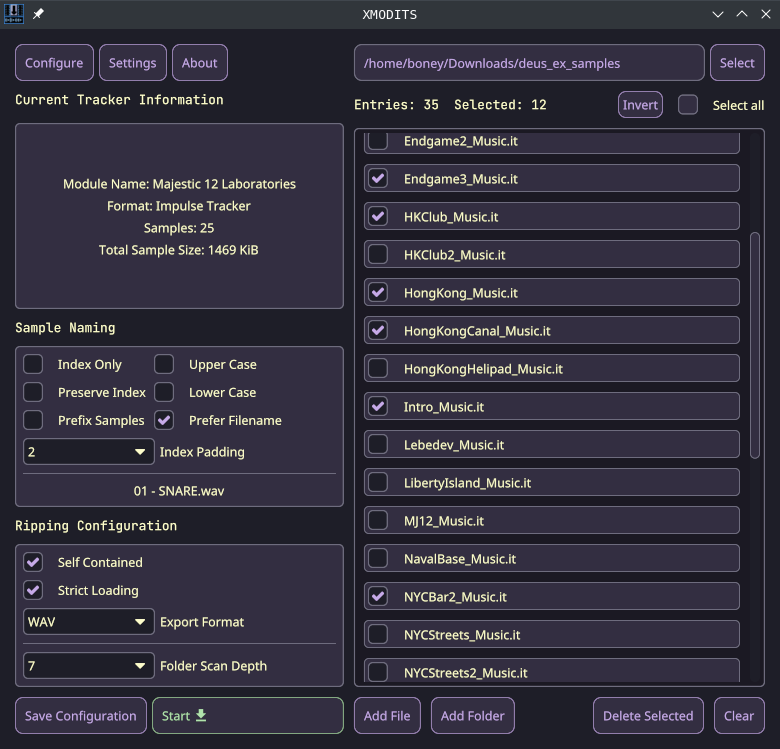
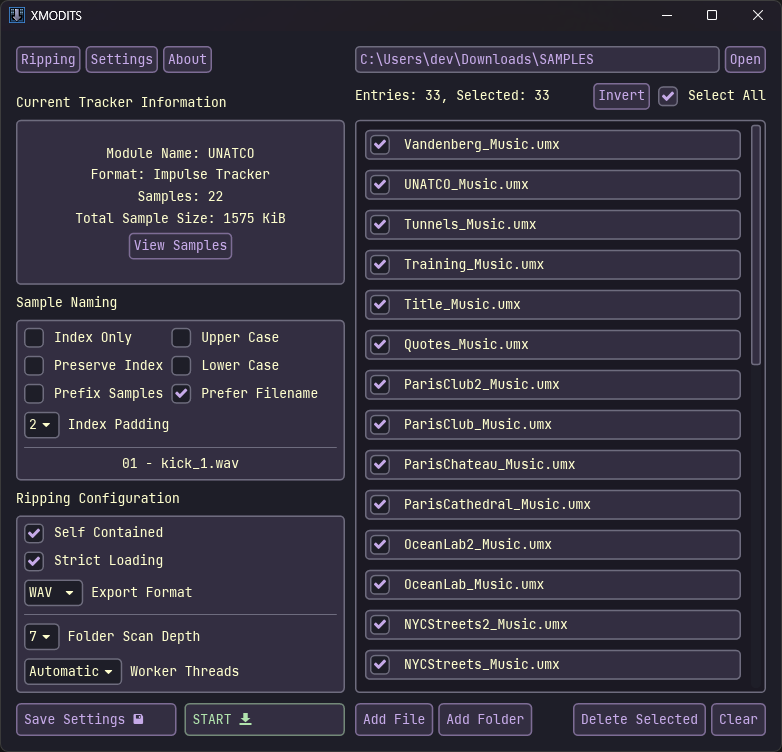
Update screenshots and readme

diff --git a/README.md b/README.md
@@ -1,9 +1,7 @@
 <div align="center">
 <img alt="XMODITS Logo" src="icon.png">     
-<!-- I could do with an improved logo tbh -->
 
 # XMODITS
-
 
 # A tool to bulk extract samples from various tracker modules with ease.
 </div>
@@ -53,10 +51,10 @@ If you prefer to use a minimal version of this tool, a command line version of x
 |``.raw``| Headerless pcm |
 
 ## Features
-<!-- * Sample previewing  (0.12.0)-->
 * A robust naming system for extracted samples (see [Sample Naming](#sample-naming)).
 * Can export samples to less common audio formats used by music trackers: ``.its``, ``.s3i`` & ``.8svx``
 * Can show information about a module.
+* A sample previewer.
 * Multithreaded ripping* for better efficiency.
 * Cute animated fox to make ripping less tedious.
 <!-- * Resuming -->
@@ -65,13 +63,15 @@ If you prefer to use a minimal version of this tool, a command line version of x
 \* xmodits will only use threads if it is ripping from a directory.
 
 ## Screenshots
-![xmodits gui](./assets/screenshots/home.png)
+![XMODITS initial screen](./assets/screenshots/home.png)
 <details>
 <summary>Click to show more</summary>
 
-![xmodits gui](./assets/screenshots/selection.png)
-![xmodits gui](./assets/screenshots/ripping.png)
-![xmodits gui](./assets/screenshots/ripping_done.png)
+![Selecting tracker modules](./assets/screenshots/selection.png)
+![Previewing samples from "UNATCO_Music.umx"](./assets/screenshots/sample_preview.png)
+![Ripping samples from 33 tracker modules](./assets/screenshots/ripping.png)
+![XMODITS has finished ripping with no error. Yay! ](./assets/screenshots/ripping_done.png)
+
 
 Click [here](./assets/screenshots/README.md) for different themes
 

diff --git a/assets/screenshots/README.md b/assets/screenshots/README.md
@@ -2,11 +2,20 @@
 
 ### Original
 ![xmodits gui](./original.png)
+![xmodits gui](./sample_preview.png)
+
 ### Dracula
 ![xmodits gui](./dracula.png)
+![xmodits gui](./dracula_sample.png)
+
 ### Catppuccin (personal favourite)
 ![xmodits gui](./catppuccin.png)
+![xmodits gui](./catppuccin_sample.png)
+
 ### LMMS 
 ![xmodits gui](./lmms.png)
+![xmodits gui](./lmms_sample.png)
+
 ### OneShot
 ![xmodits gui](./oneshot.png)
+![xmodits gui](./oneshot_sample.png)
